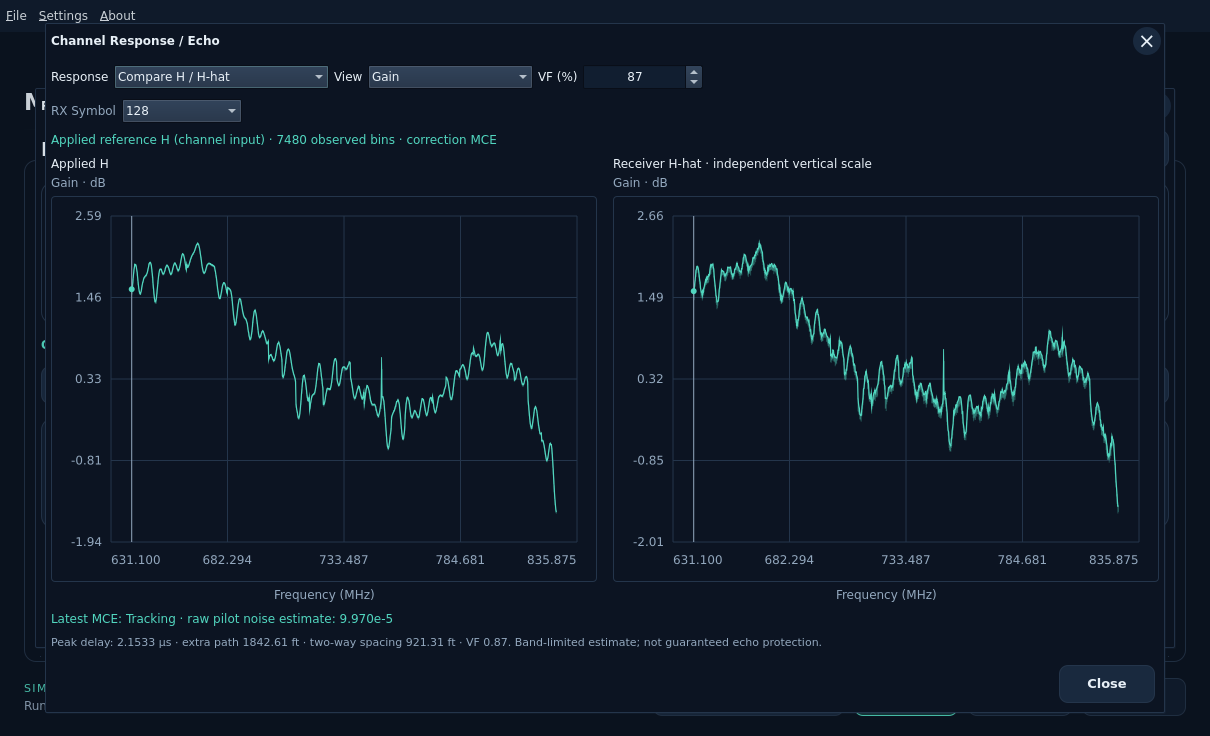
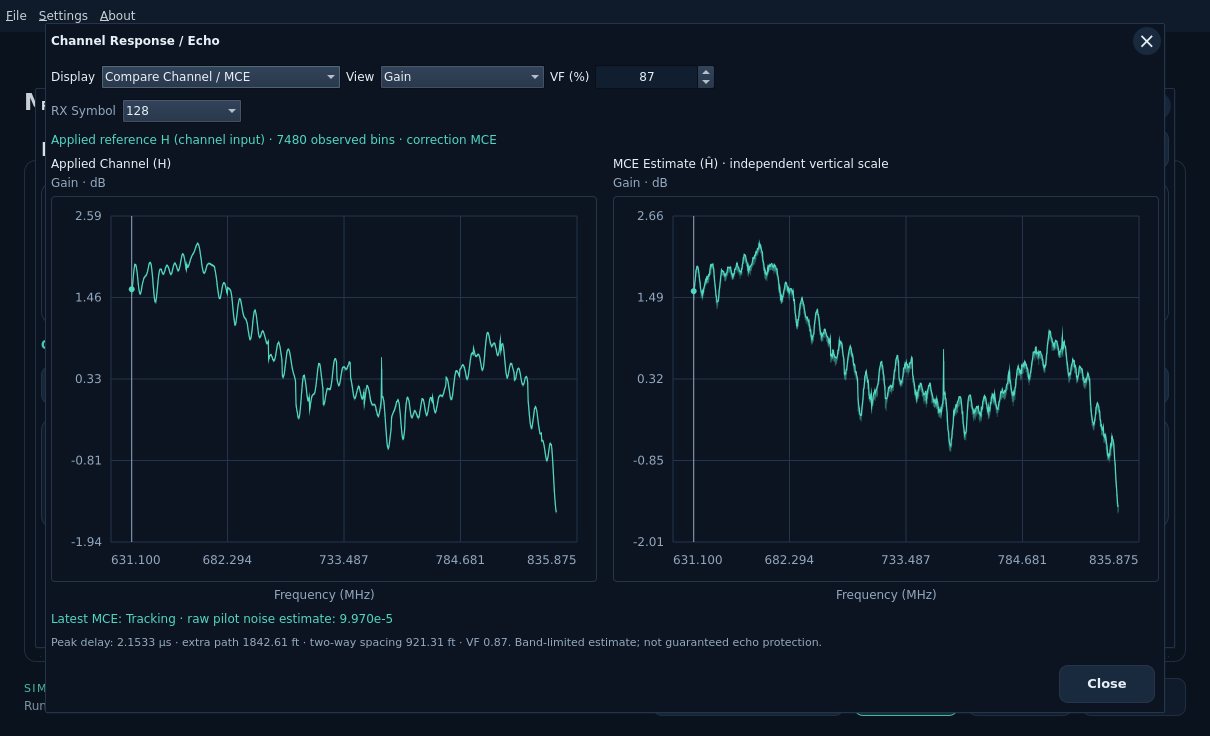
BugFix: Clarify MCE connections and graph choices - Hide the direct supplied-H branch with MCE enabled - Name display choices for MCE and legacy results - Update guides, terminology and native screenshots - Tests: 66 adapter and 58 QML checks pass - Tests: Clippy and native Qt build pass

diff --git a/apps/qt/qml/instruments/response/ReceiverResponseDialog.qml b/apps/qt/qml/instruments/response/ReceiverResponseDialog.qml
@@ -12,6 +12,9 @@ WorkbenchDialog {
     required property var backend
     property var runState: ({})
     property var response: ({points:[],x_ticks:[],y_ticks:[]})
+    // Retained results describe the last run, independently of next-run settings.
+    readonly property bool mceResult: response.available ? response.mce !== undefined : runState.options?.receiver_mode === "merlin_estimated"
+    readonly property string estimateLabel: mceResult ? "MCE Estimate (Ĥ)" : "Pilot Estimate (Ĥ)"
     property string seenToken:""
     property int sourceIndex:0
     property int snapshotIndex:0
@@ -27,8 +30,8 @@ WorkbenchDialog {
     contentItem:ColumnLayout {
         spacing:10
         RowLayout {
-            Label { text:"Response";color:dialog.theme.text }
-            ComboBox { objectName:"receiverResponseSource";model:["Applied Reference H","Receiver H-hat","Compare H / H-hat"];currentIndex:dialog.sourceIndex;Layout.preferredWidth:215;onActivated:function(index){dialog.sourceIndex=index;dialog.snapshotIndex=0;dialog.refresh()} }
+            Label { text:"Display";color:dialog.theme.text }
+            ComboBox { objectName:"receiverResponseSource";model:["Applied Channel (H)",dialog.estimateLabel,dialog.mceResult ? "Compare Channel / MCE" : "Compare Channel / Pilots"];currentIndex:dialog.sourceIndex;Layout.preferredWidth:240;onActivated:function(index){dialog.sourceIndex=index;dialog.snapshotIndex=0;dialog.refresh()} }
             Label { text:"View";color:dialog.theme.text }
             ComboBox { objectName:"receiverResponseView";model:["Gain","Wrapped Phase","Real","Imaginary","Impulse / Echo"];currentIndex:dialog.viewIndex;Layout.preferredWidth:165;onActivated:function(index){dialog.viewIndex=index;dialog.refresh()} }
             Label { text:"VF (%)";color:dialog.theme.text }
@@ -45,12 +48,12 @@ WorkbenchDialog {
             Layout.fillWidth:true;Layout.fillHeight:true;spacing:16
             ColumnLayout {
                 Layout.fillWidth:true;Layout.fillHeight:true;Layout.preferredWidth:1;Layout.minimumWidth:0
-                Label {visible:dialog.sourceIndex===2;text:"Applied H";color:dialog.theme.text}
+                Label {visible:dialog.sourceIndex===2;text:"Applied Channel (H)";color:dialog.theme.text}
                 SpectrumPlot { theme:dialog.theme;viewport:dialog.response;Layout.fillWidth:true;Layout.fillHeight:true }
             }
             ColumnLayout {
                 visible:dialog.sourceIndex===2;Layout.fillWidth:true;Layout.fillHeight:true;Layout.preferredWidth:1;Layout.minimumWidth:0
-                Label {text:"Receiver H-hat · independent vertical scale";color:dialog.theme.text;Layout.fillWidth:true;wrapMode:Text.WordWrap}
+                Label {text:dialog.estimateLabel+" · independent vertical scale";color:dialog.theme.text;Layout.fillWidth:true;wrapMode:Text.WordWrap}
                 SpectrumPlot {objectName:"receiverResponseComparison";theme:dialog.theme;viewport:dialog.response.comparison || {points:[],x_ticks:[],y_ticks:[]};Layout.fillWidth:true;Layout.fillHeight:true}
             }
         }

diff --git a/apps/qt/tests/tst_workbench.qml b/apps/qt/tests/tst_workbench.qml
@@ -1398,6 +1398,8 @@ Pane {
             const heading=findChild(block,"blockHeading")
             const headingY=heading.y,headingHeight=heading.height
             compare(chip.visible,false)
+            compare(findChild(workbench,"estimateReceiverBranch").visible,true)
+            compare(findChild(workbench,"estimateReceiverConnection").visible,true)
             mouseClick(block);tryCompare(workbench.receiverPopup,"opened",true)
             mouseClick(findChild(workbench.receiverPopup,"receiverConfigure"))
             const dialog=workbench.receiverConfigPopup
@@ -1417,6 +1419,10 @@ Pane {
             mouseClick(findChild(dialog,"receiverConfigApply"));tryCompare(dialog,"visible",false)
             compare(chip.visible,true)
             compare(block.indicatorText,"MCE")
+            compare(findChild(workbench,"estimateReceiverBranch").visible,false)
+            compare(findChild(workbench,"estimateReceiverConnection").visible,false)
+            compare(findChild(workbench,"estimateChannelConnection").visible,true)
+            compare(findChild(workbench,"channelReceiverConnection").visible,true)
             compare(heading.y,headingY);compare(heading.height,headingHeight)
             compare(heading.horizontalAlignment,Text.AlignHCenter)
             compare(runBackend.acceptedRunOptions.mce.averaging_symbols,24)
@@ -1430,6 +1436,21 @@ Pane {
             keyClick(Qt.Key_Escape);tryCompare(workbench.receiverPopup,"visible",false)
             runBackend.acceptedRunOptions=saved;runBackend.configured=wasConfigured;workbench.pollRun()
             compare(chip.visible,false)
+            compare(findChild(workbench,"estimateReceiverBranch").visible,true)
+            compare(findChild(workbench,"estimateReceiverConnection").visible,true)
+        }
+        function test_response_display_labels_follow_retained_mode() {
+            const dialog=workbench.receiverPopup.responsePopup
+            const savedResponse=dialog.response
+            const selector=findChild(dialog,"receiverResponseSource")
+            dialog.response={available:true,mce:{tracking:true},points:[],x_ticks:[],y_ticks:[]}
+            compare(selector.model[0],"Applied Channel (H)")
+            compare(selector.model[1],"MCE Estimate (Ĥ)")
+            compare(selector.model[2],"Compare Channel / MCE")
+            dialog.response={available:true,points:[],x_ticks:[],y_ticks:[]}
+            compare(selector.model[1],"Pilot Estimate (Ĥ)")
+            compare(selector.model[2],"Compare Channel / Pilots")
+            dialog.response=savedResponse
         }
         function test_waveform_channel_apply_and_cancel_preserve_receiver_mode() {
             const saved=JSON.parse(JSON.stringify(runBackend.acceptedRunOptions))

diff --git a/apps/qt/qml/shell/Workbench.qml b/apps/qt/qml/shell/Workbench.qml
@@ -237,14 +237,15 @@ Item {
                 Connection { anchors.fill: parent; theme: workbench.theme; fromX: 260; fromY: 230; toX: 260; toY: 350; arrowHead: false }
                 Connection { anchors.fill: parent; theme: workbench.theme; fromX: 260; fromY: 290; toX: 325; toY: 290 }
                 Connection { anchors.fill: parent; theme: workbench.theme; fromX: 520; fromY: 290; toX: 630; toY: 290 }
-                Connection { anchors.fill: parent; theme: workbench.theme; fromX: 825; fromY: 290; toX: 935; toY: 290 }
+                Connection { objectName: "channelReceiverConnection"; anchors.fill: parent; theme: workbench.theme; fromX: 825; fromY: 290; toX: 935; toY: 290 }
                 Connection { anchors.fill: parent; theme: workbench.theme; fromX: 422.5; fromY: 155; toX: 422.5; toY: 245 }
                 Connection { anchors.fill: parent; theme: workbench.theme; fromX: 1032.5; fromY: 245; toX: 1032.5; toY: 155 }
                 Connection { anchors.fill: parent; theme: workbench.theme; fromX: 727.5; fromY: 155; toX: 727.5; toY: 245 }
                 Connection { anchors.fill: parent; theme: workbench.theme; fromX: 880; fromY: 425; toX: 880; toY: 380; arrowHead: false }
-                Connection { anchors.fill: parent; theme: workbench.theme; fromX: 727.5; fromY: 380; toX: 1032.5; toY: 380; arrowHead: false }
+                Connection { objectName: "estimateChannelConnection"; anchors.fill: parent; theme: workbench.theme; fromX: 727.5; fromY: 380; toX: 880; toY: 380; arrowHead: false }
+                Connection { objectName: "estimateReceiverBranch"; visible: receiverBlock.indicatorText !== "MCE"; anchors.fill: parent; theme: workbench.theme; fromX: 880; fromY: 380; toX: 1032.5; toY: 380; arrowHead: false }
                 Connection { anchors.fill: parent; theme: workbench.theme; fromX: 727.5; fromY: 380; toX: 727.5; toY: 335 }
-                Connection { anchors.fill: parent; theme: workbench.theme; fromX: 1032.5; fromY: 380; toX: 1032.5; toY: 335 }
+                Connection { objectName: "estimateReceiverConnection"; visible: receiverBlock.indicatorText !== "MCE"; anchors.fill: parent; theme: workbench.theme; fromX: 1032.5; fromY: 380; toX: 1032.5; toY: 335 }
                 WorkbenchBlock {
                     id: ofdmBlock; objectName: "ofdmBlock"; x: 47.5; y: 185; width: 195; height: 90
                     theme: workbench.theme; heading: "OFDM Channel\nDescriptor\n(OCD)"

diff --git a/docs/user/receiver-estimation/mce.md b/docs/user/receiver-estimation/mce.md
@@ -13,6 +13,10 @@ existing layout. Cancel and the title X discard draft changes. Settings persist
 with the workbench and take effect on the next run; Apply is disabled while a
 simulation is active. Stop the current run before changing accepted settings.
 
+With MCE enabled, the direct DS Channel Est. connection into Receiver is hidden.
+The connection to Channel Simulator remains: supplied H still impairs the signal.
+The signal connection from Channel Simulator to Receiver stays visible.
+
 ![Main workbench with the MCE chip and centered Receiver heading](../../images/workbench/mce-workbench-dark.png)
 
 ![Actual Receiver Configuration with MCE enabled](../../images/workbench/mce-receiver-configuration-dark.png)
@@ -80,9 +84,14 @@ fail explicitly. The receiver never silently switches to supplied H.
 ## Inspecting results
 
 Run the workbench, then open **Receiver → Channel Response / Echo**. Select
-**Compare H / H-hat** for applied and estimated responses side by side. Choose
+**Display → Compare Channel / MCE** for applied and estimated responses side by side. Choose
 Gain, Wrapped Phase or Impulse / Echo; each panel labels its own vertical scale.
 Impulse plots are band-limited and peak-normalized, not physical echo guarantees.
+The **Display** selector offers **Applied Channel (H)** and **MCE Estimate (Ĥ)**.
+It selects a graph; enable MCE in Receiver Configuration. Retained legacy
+pilot-estimated runs show **Pilot Estimate (Ĥ)** and **Compare Channel / Pilots**.
+Labels follow the retained run even when next-run settings change.
+
 The scalar MCE status reports its received-pilot raw noise proxy. QAM shows actual
 TX-reference MER; FEC Monitor shows TotalCW, CCW and UFEC. High MER alone is not
 proof of successful payload recovery.

diff --git a/docs/user/terminology.md b/docs/user/terminology.md
@@ -88,7 +88,7 @@ See [QAM processing](qam-processing/README.md) and [receiver instruments](receiv
 | Run Profile | The captured profile ID used by one independent simulation run. It is separate from the current on-wire Profile A/ID0. |
 | RxMER | Receive Modulation Error Ratio: per-subcarrier signal-to-modulation-error power ratio, commonly expressed in dB. MERLIN uses it to model residual error power; it does not reconstruct measured I/Q from RxMER. |
 | Channel estimate H | Complex frequency response across subcarriers. Flat/unity H = 1 + 0i means no gain/phase change; H = 0 + 0i would suppress the signal. |
-| Receiver estimate H-hat | Channel response estimated from received pilots, distinct from the supplied reference H. |
+| Receiver estimate Ĥ (H-hat) | Channel response estimated from received pilots, distinct from applied H. The response Display selector calls it MCE Estimate for MCE runs and Pilot Estimate for legacy pilot-estimated runs. See the [MCE guide](receiver-estimation/mce.md). |
 | Pilot-assisted estimation | Uses independently known pilot symbols to estimate the received channel; it is not arbitrary blind RF acquisition. |
 | FIR | Finite impulse response: a filter formed from a finite set of delayed, weighted samples. MERLIN's [waveform channel](impairments/waveform-filter.md) retains those delays between OFDM symbols. |
 | Equalization | Applies a correction based on channel response to reduce its effect on received constellation points. |

diff --git a/docs/development/features/independent-channel-estimation/design.md b/docs/development/features/independent-channel-estimation/design.md
@@ -224,3 +224,17 @@ The user-selected display acronym is **MCE — MERLIN Channel Estimation**.
 Add only a small MCE chip to the existing main Receiver block, visible when
 enabled; preserve its dimensions, layout and centered Receiver heading.
 The renamed mode remains disabled by default in Receiver Configuration.
+
+### CH-EST-RX-11: Clarify MCE diagram routing and display selection
+
+When accepted MCE is enabled, hide only the supplied-H branch into Receiver.
+Retain DS Channel Est. to Channel Simulator and the received-signal connection.
+QML owns this presentation; scientific inputs and saved settings remain unchanged.
+Rename Response to Display, with Applied Channel (H), MCE Estimate (Ĥ), and
+Compare Channel / MCE. Retained legacy results use Pilot Estimate instead of MCE;
+retained result metadata takes precedence over next-run settings.
+
+Validation: Qt check passes (formatting, Clippy, 66 adapter tests, 58 QML tests
+and native build). Tests cover accepted-mode routing, preserved channel paths,
+restored reference routing and retained MCE/legacy display labels. Actual Ubuntu
+dark screenshots confirm the diagram and comparison view; guide images updated.

diff --git a/docs/architecture.md b/docs/architecture.md
@@ -1024,7 +1024,11 @@ MCE states: Off uses reference 1/H correction; On uses independently estimated
 Existing saved receiver-mode choices remain compatible. `merlin_estimated` uses
 receiver-generated pilots and temporal continuous-pilot differences, never exact
 channel/noise inputs. A small MCE chip indicates enablement without moving the
-centered Receiver heading. Training/Tracking describes 128-symbol history readiness,
+centered Receiver heading. When MCE is enabled, the diagram hides the direct
+supplied-H branch to Receiver, retaining the channel impairment and signal paths.
+The response Display selector names MCE or legacy pilot estimates from retained
+result metadata rather than relabeling old results with next-run settings.
+Training/Tracking describes 128-symbol history readiness,
 not certified accuracy. Apply is blocked during a run; draft Cancel/X preserves
 accepted settings. Rust settings/results are shared by CLI and Qt; Python is deferred.
 

diff --git a/docs/development/checklist.md b/docs/development/checklist.md
@@ -633,6 +633,8 @@ See the [implementation record](features/pilot-channel-estimation/implementation
   versus estimated-H diagnostics without exposing truth to receiver decisions.
   MCE defaults to Off, with enablement/settings in Receiver Configuration;
   preserve saved modes and validate Apply/Cancel, persistence and next-run use.
+  Hide the direct supplied-H diagram branch for MCE; retain channel paths.
+  Label response Display choices using the retained MCE or legacy pilot result.
   Verify supplied H impairs both MCE states identically; Off uses reference
   correction and On uses received-pilot estimates without supplied H in RX.
 - [x] **CH-EST-RX-12** Verify analytic echoes, real waveform/FEC recovery, input
